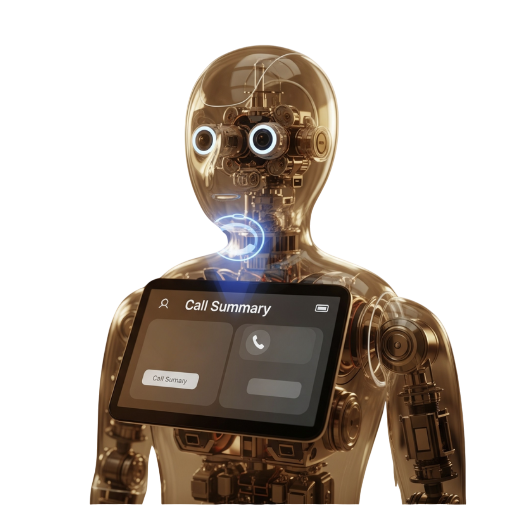
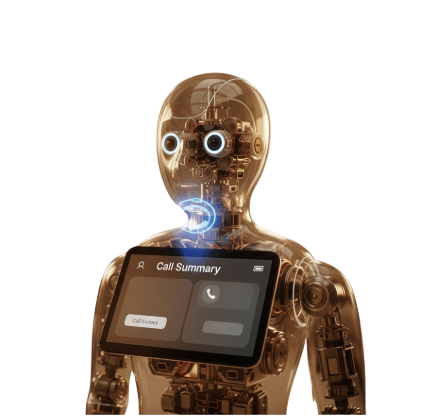
Changement agent Annonce IA

Changed region(s): [[0.1522, 0.0624, 0.9133, 1.0]]

diff --git a/src/components/Assistants.jsx b/src/components/Assistants.jsx
@@ -159,7 +159,7 @@ export default function MonCompteV2() {
 
       {/* Section Assistants spécialisés */}
       <section className="bg-white py-20">
-        <div className="max-w-6xl mx-auto px-6 md:px-20">
+        <div className="max-w-7xl mx-auto px-6 md:px-20">
           {/* Header */}
           <div className="text-center mb-16">
             <div className="flex flex-col md:flex-row items-center justify-center gap-2 md:gap-4 mb-6">
@@ -233,19 +233,19 @@ export default function MonCompteV2() {
               </div>
             </div>
 
-            {/* LegalBNB IA */}
+            {/* Annonce IA */}
             <div className="group bg-white rounded-2xl shadow-lg hover:shadow-2xl transition-all duration-300 overflow-hidden border border-gray-100 flex flex-col">
               <div className="aspect-[4/3] overflow-hidden">
                 <img 
-                  src="/images/legalbnb-ia.png" 
-                  alt="LegalBNB IA" 
+                  src="/images/annonce-ia.png" 
+                  alt="Annonce IA" 
                   className="w-full h-full object-cover group-hover:scale-110 transition-transform duration-500"
                 />
               </div>
               <div className="p-8 flex flex-col flex-grow">
                 <div className="flex items-center gap-3 mb-4">
                   <Users className="w-8 h-8 text-[#dbae61]" />
-                  <h3 className="text-2xl font-bold text-black">LEGALBNB IA</h3>
+                  <h3 className="text-2xl font-bold text-black">ANNONCE IA</h3>
                 </div>
                 <p className="text-lg font-medium text-gray-800 mb-4">
                   L'IA qui vous répond comme un juriste

diff --git a/src/components/TestAssistantJuridique.jsx b/src/components/TestAssistantJuridique.jsx
@@ -26,7 +26,7 @@ export default function TestAssistantJuridique() {
     try {
       let requestBody = { 
         chatInput: input,
-        sessionId: 'test-session-123'
+        sessionId: conversationIdRef.current
       }
       
       // Si un PDF est sélectionné, on l'ajoute dans le format attendu par n8n
